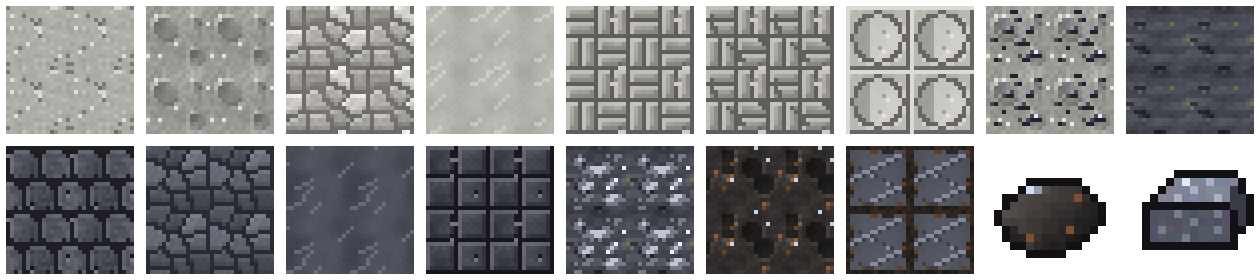
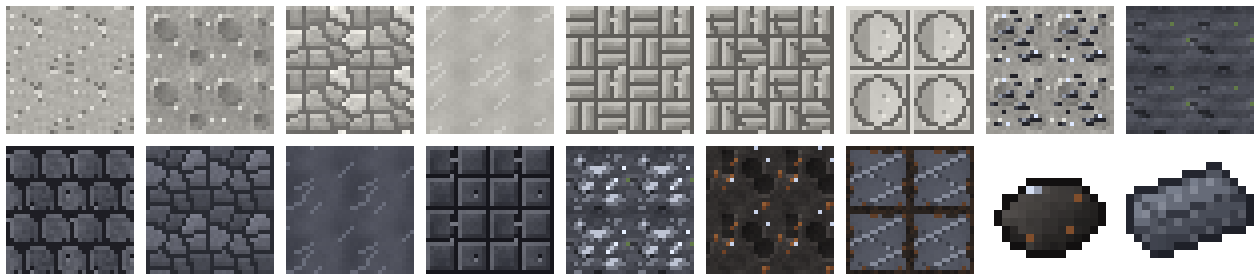
Meteor iron ingot back to the vanilla ingot shape, in dark gunmetal with a faint band etch
Claude-Session: https://claude.ai/code/session_01M5QtgiQGYPBXfdb72XCowG

Changed region(s): [[0.8667, 0.5714, 0.9905, 0.9429]]

diff --git a/tools/moon_assets.py b/tools/moon_assets.py
@@ -457,7 +457,12 @@ def textures():
     meteor_slab(60).save(os.path.join(b, "meteor_iron_block.png"))
     meteor_crust(61).save(os.path.join(b, "raw_meteor_iron_block.png"))
     lump_sprite(62).save(os.path.join(i, "raw_meteor_iron.png"))
-    bar_sprite().save(os.path.join(i, "meteor_iron_ingot.png"))
+    # the ingot keeps vanilla's ingot shape (so it reads as an ingot), in dark gunmetal with a faint etch of the bands
+    ingot = item_map(os.path.join(CLASSIC, "item", "iron_ingot.png"), *IRON); pi = ingot.load()
+    for y in range(16):
+        for x in range(16):
+            if pi[x, y][3] and (x + 2 * y) % 6 == 0 and sum(pi[x, y][:3]) > 150: pi[x, y] = tuple(min(255, c + 30) for c in pi[x, y][:3]) + (255,)
+    ingot.save(os.path.join(i, "meteor_iron_ingot.png"))
 
 # --------------------------------------------------------------------------------------------- json
 def w(rel, obj):
